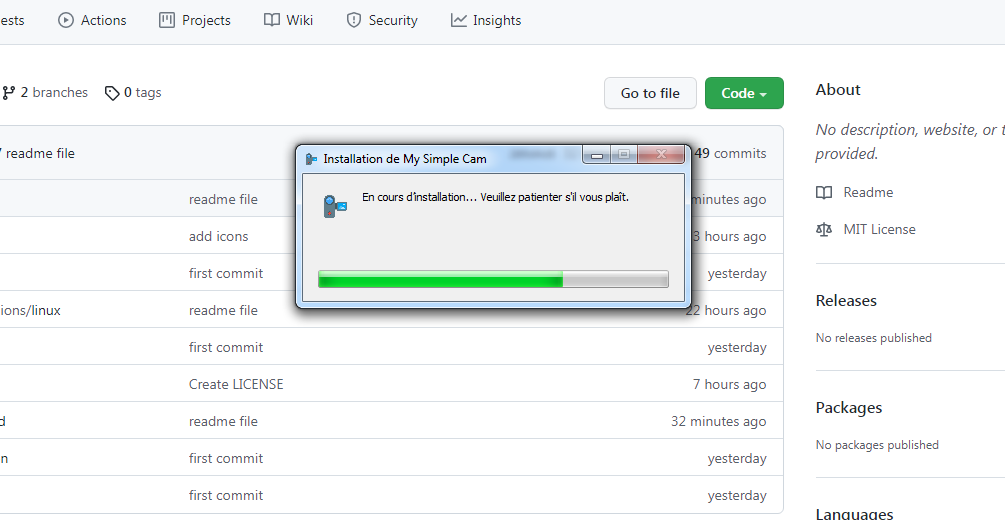
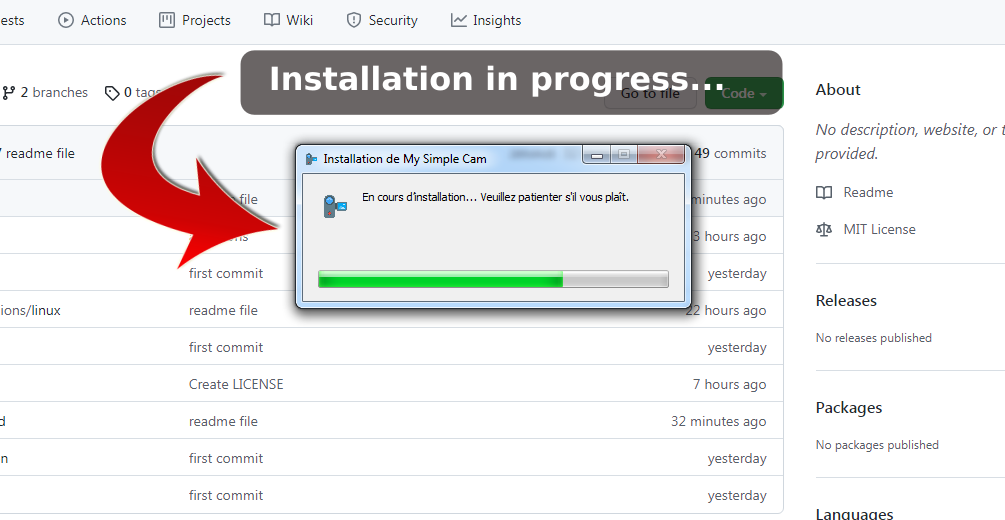
readme file

Changed region(s): [[0.0925, 0.0923, 0.802, 0.5231]]

diff --git a/README.md b/README.md
@@ -75,7 +75,7 @@
 
 ![alt text](demo/mac/widget.png "My Simple Cam")
 
-## Windowq - Pictures demo
+## Windows - Pictures demo
 
 >Installation...
 
